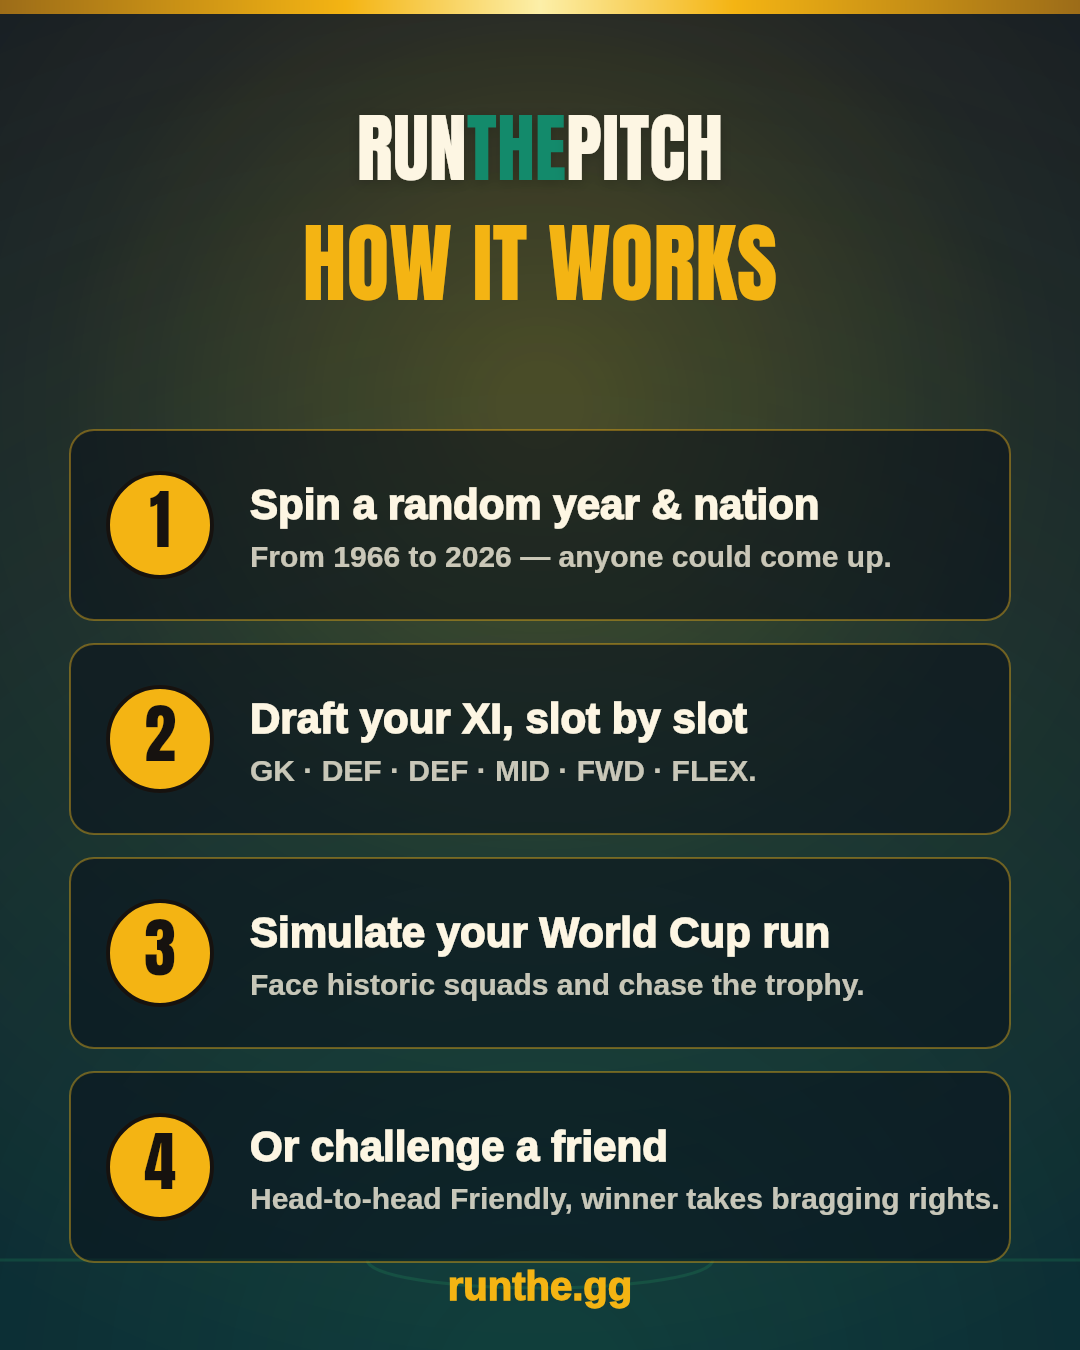
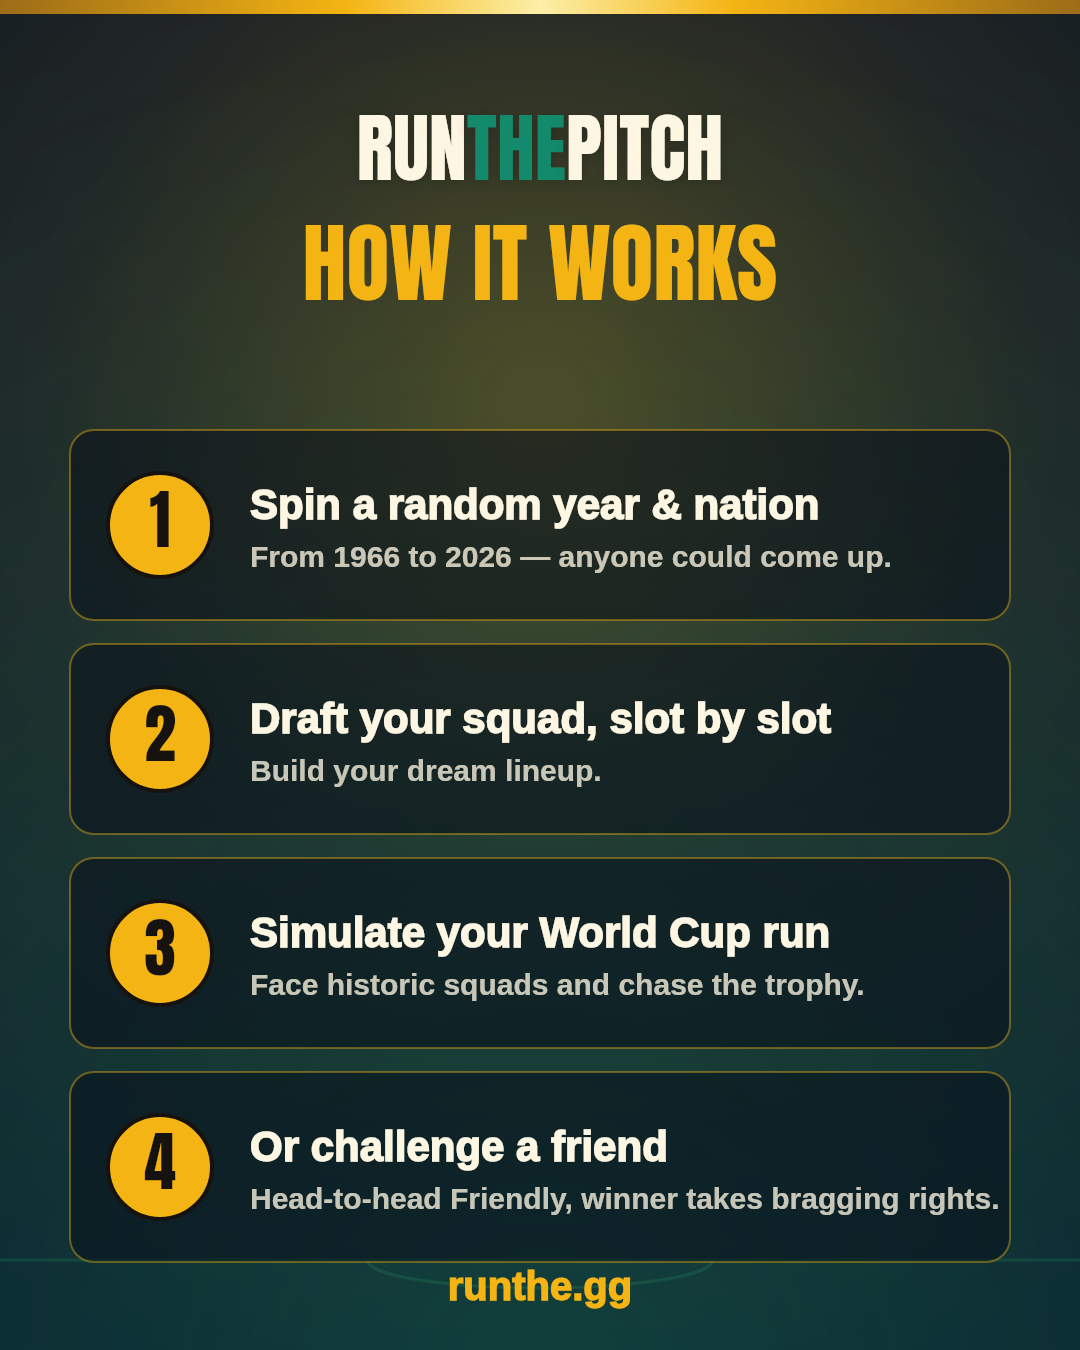
Update how-it-works step 2 copy

Changed region(s): [[0.2444, 0.4978, 0.7639, 0.5911]]

diff --git a/marketing/make-ig-assets.js b/marketing/make-ig-assets.js
@@ -134,7 +134,7 @@ function ctaButton(x,CX,by,bw,bh,fill,label,sub){
   x.textAlign='center'; x.fillStyle=gold; x.font='400 88px AntonR'; x.fillText('HOW IT WORKS', CX, 300);
   const steps=[
     ['1','Spin a random year & nation','From 1966 to 2026 — anyone could come up.'],
-    ['2','Draft your XI, slot by slot','GK · DEF · DEF · MID · FWD · FLEX.'],
+    ['2','Draft your squad, slot by slot','Build your dream lineup.'],
     ['3','Simulate your World Cup run','Face historic squads and chase the trophy.'],
     ['4','Or challenge a friend','Head-to-head Friendly, winner takes bragging rights.'],
   ];
